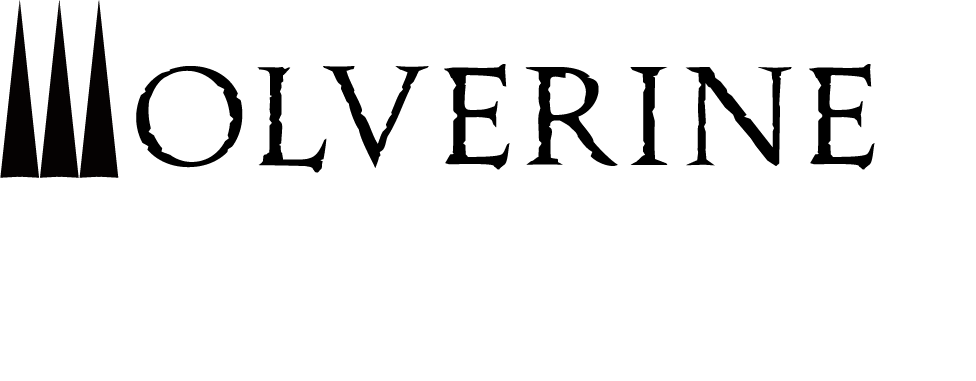
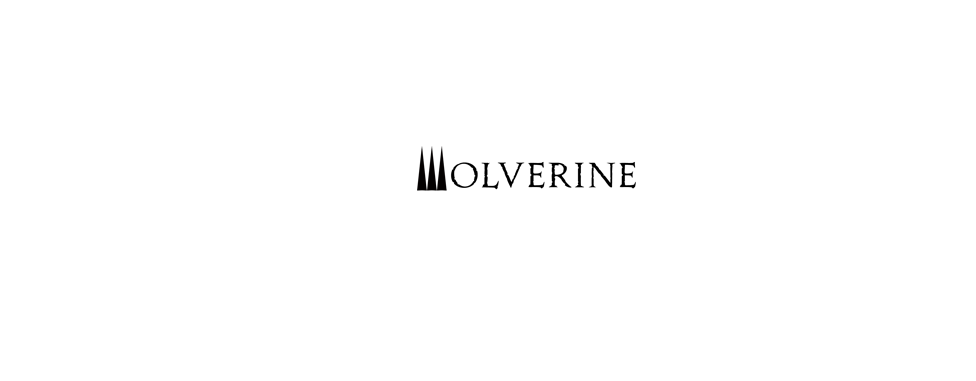
Navigation

diff --git a/index.html b/index.html
@@ -4,10 +4,22 @@
     <meta charset="UTF-8">
     <meta name="viewport" content="width=device-width, initial-scale=1.0">
     <link rel="stylesheet" href="style.css">
-    <title>Wolverine</title>
+    <title>Wolverine CV</title>
 </head>
 <body>
-    <img  src="Wolverine.png" alt=""> 
+    <nav>
+     <a href="index.html"> <img src="Wolverine2.png" alt="Logotyp"></a>
+     <ul>
+         <li><a href="">Professional experience</a></li>
+         <li><a href="">Education</a></li>
+         <li><a href="">Skills</a></li>
+         <li><a href="">Languages</a></li>
+     </ul>
+    </nav>
+    <main>
+        <header>
+      
+        </header>
 <h1>Logan Wolverine</h1>
 <h2>Contact information</h2>
 <p>Phone: +1 231 573-854
@@ -67,7 +79,9 @@
                         Cyclops-Friend
                         Beast-Friend
                         </p>
+        <footer>
 
-
+        </footer>
+    </main>
 </body>
 </html>

diff --git a/style.css b/style.css
@@ -1,6 +1,4 @@
 body {
     background-color #FDF9F9;
-}
-.a {
-    color: red;
+
 }
